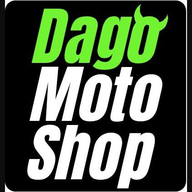
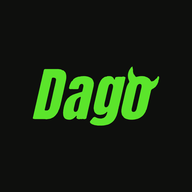
Nouvelle icône « Dago » (B), compatible découpe ronde Android, icône iPhone 180 px
Claude-Session: https://claude.ai/code/session_01LUadX9RA5ykAi7zxkQXocc

diff --git a/sw.js b/sw.js
@@ -1,7 +1,7 @@
 /* Service worker : garde l'app disponible hors connexion.
    Change VERSION à chaque mise en ligne pour que les téléphones prennent la nouvelle version. */
-const VERSION = 'dms-v20';
-const FICHIERS = ['./', 'index.html', 'styles.css?v=20', 'app.js?v=20', 'donnees.js?v=20', 'icones.js?v=20', 'manifest.webmanifest', 'secours.js?v=20', 'polices/manrope-latin-wght-normal.woff2',
+const VERSION = 'dms-v21';
+const FICHIERS = ['./', 'index.html', 'styles.css?v=20', 'app.js?v=20', 'donnees.js?v=20', 'icones.js?v=20', 'manifest.webmanifest?v=21', 'img/icone-192.png', 'img/icone-512.png', 'secours.js?v=20', 'polices/manrope-latin-wght-normal.woff2',
   'img/logo.jpg', 'img/scooter.webp', 'img/cygnus-1.webp', 'img/cygnus-2.webp', 'img/cygnus-3.webp', 'img/rs-zero.webp', 'img/cygnus-4.webp', 'img/kymco-g6.webp', 'img/pgo-bon.webp', 'img/kymco-vjr-110.webp', 'img/kymco-vjr-125.webp', 'img/kymco-g5.webp', 'img/pgo-jbubu.webp', 'img/kymco-gp.webp', 'img/kymco-gp2.webp', 'img/sym-jet-sr.webp', 'img/sym-jet-evo.webp', 'img/kymco-new-many.webp', 'img/pgo-tigra.webp', 'img/casque.webp', 'img/pieces.webp', 'img/icone-192.png', 'img/icone-512.png'];
 
 self.addEventListener('install', (e) => {

diff --git a/index.html b/index.html
@@ -6,9 +6,10 @@
 <title>Dagomotoshop</title>
 <meta name="description" content="Scooters d'occasion révisés, pièces détachées et accessoires à Antananarivo.">
 <meta name="theme-color" content="#FFFFFF" media="(prefers-color-scheme: light)"><meta name="theme-color" content="#0B0C0A" media="(prefers-color-scheme: dark)">
-<link rel="manifest" href="manifest.webmanifest">
-<link rel="icon" href="img/icone-192.png">
-<link rel="apple-touch-icon" href="img/icone-192.png">
+<link rel="manifest" href="manifest.webmanifest?v=21">
+<link rel="icon" href="img/favicon-32.png?v=21" sizes="32x32">
+<link rel="icon" href="img/icone-192.png?v=21" sizes="192x192">
+<link rel="apple-touch-icon" href="img/icone-180.png?v=21">
 <meta name="apple-mobile-web-app-capable" content="yes">
 <meta name="apple-mobile-web-app-title" content="Dagomoto">
 <link rel="preload" href="polices/manrope-latin-wght-normal.woff2" as="font" type="font/woff2" crossorigin>
